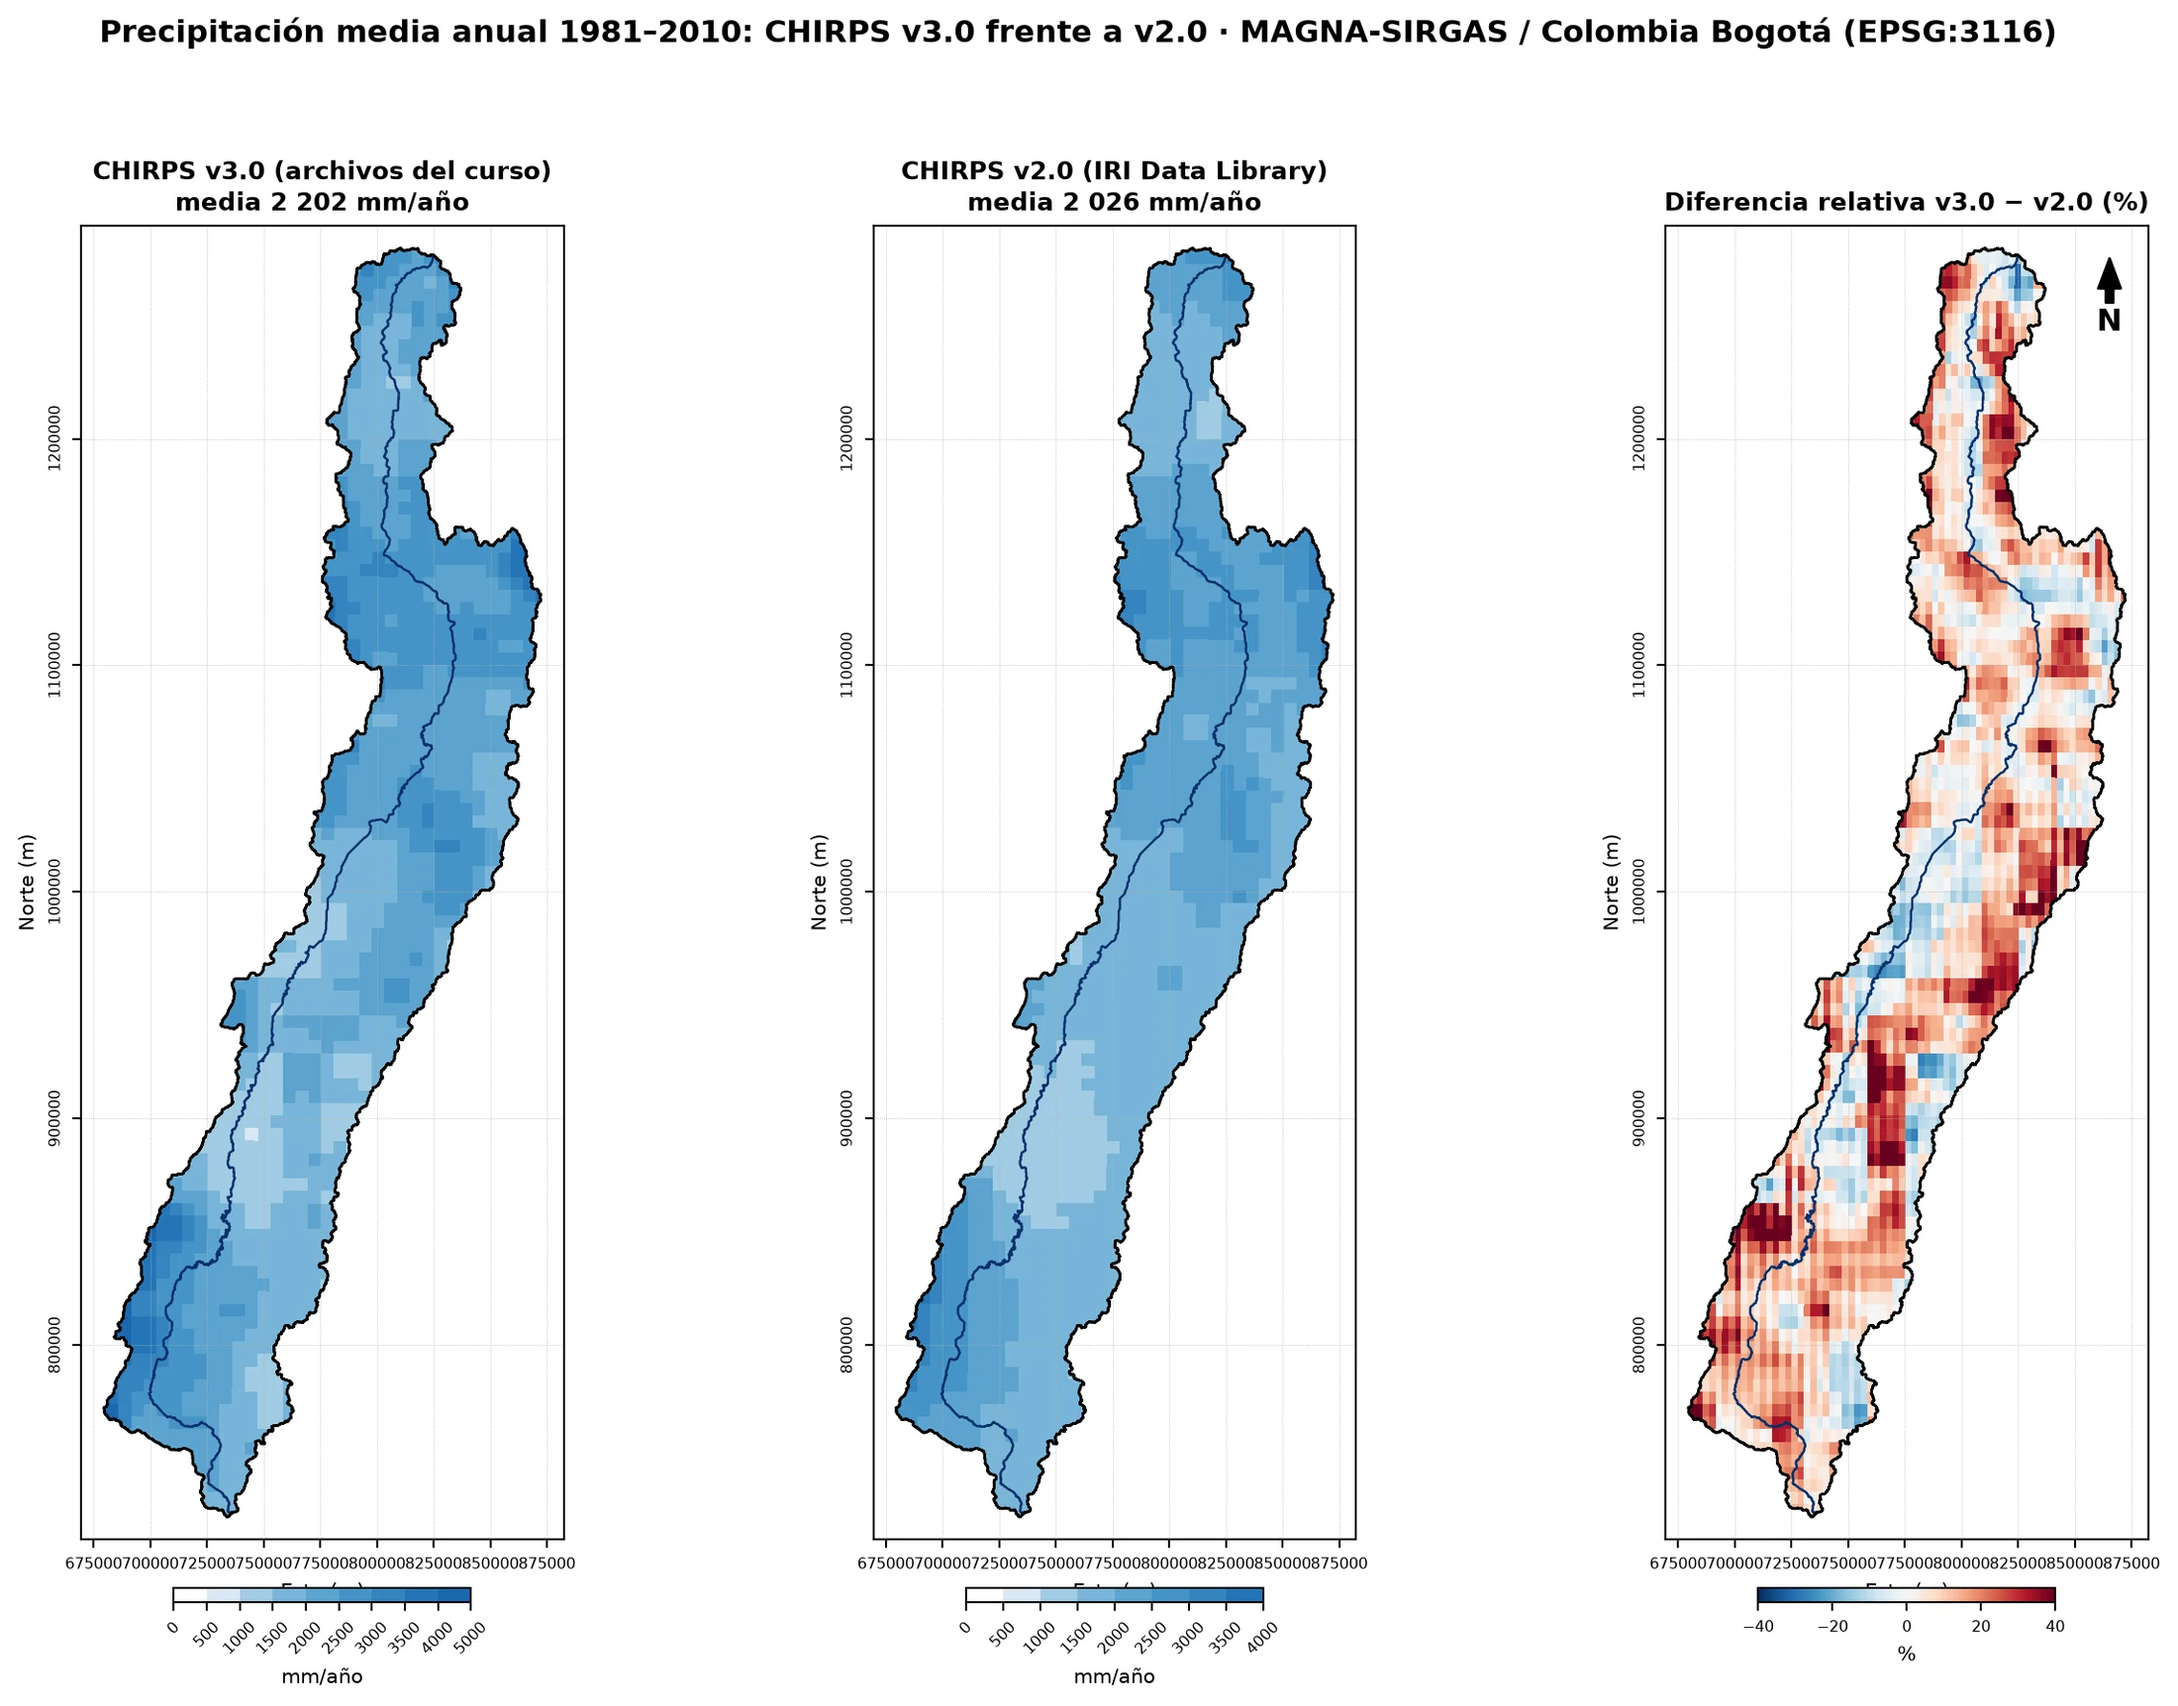
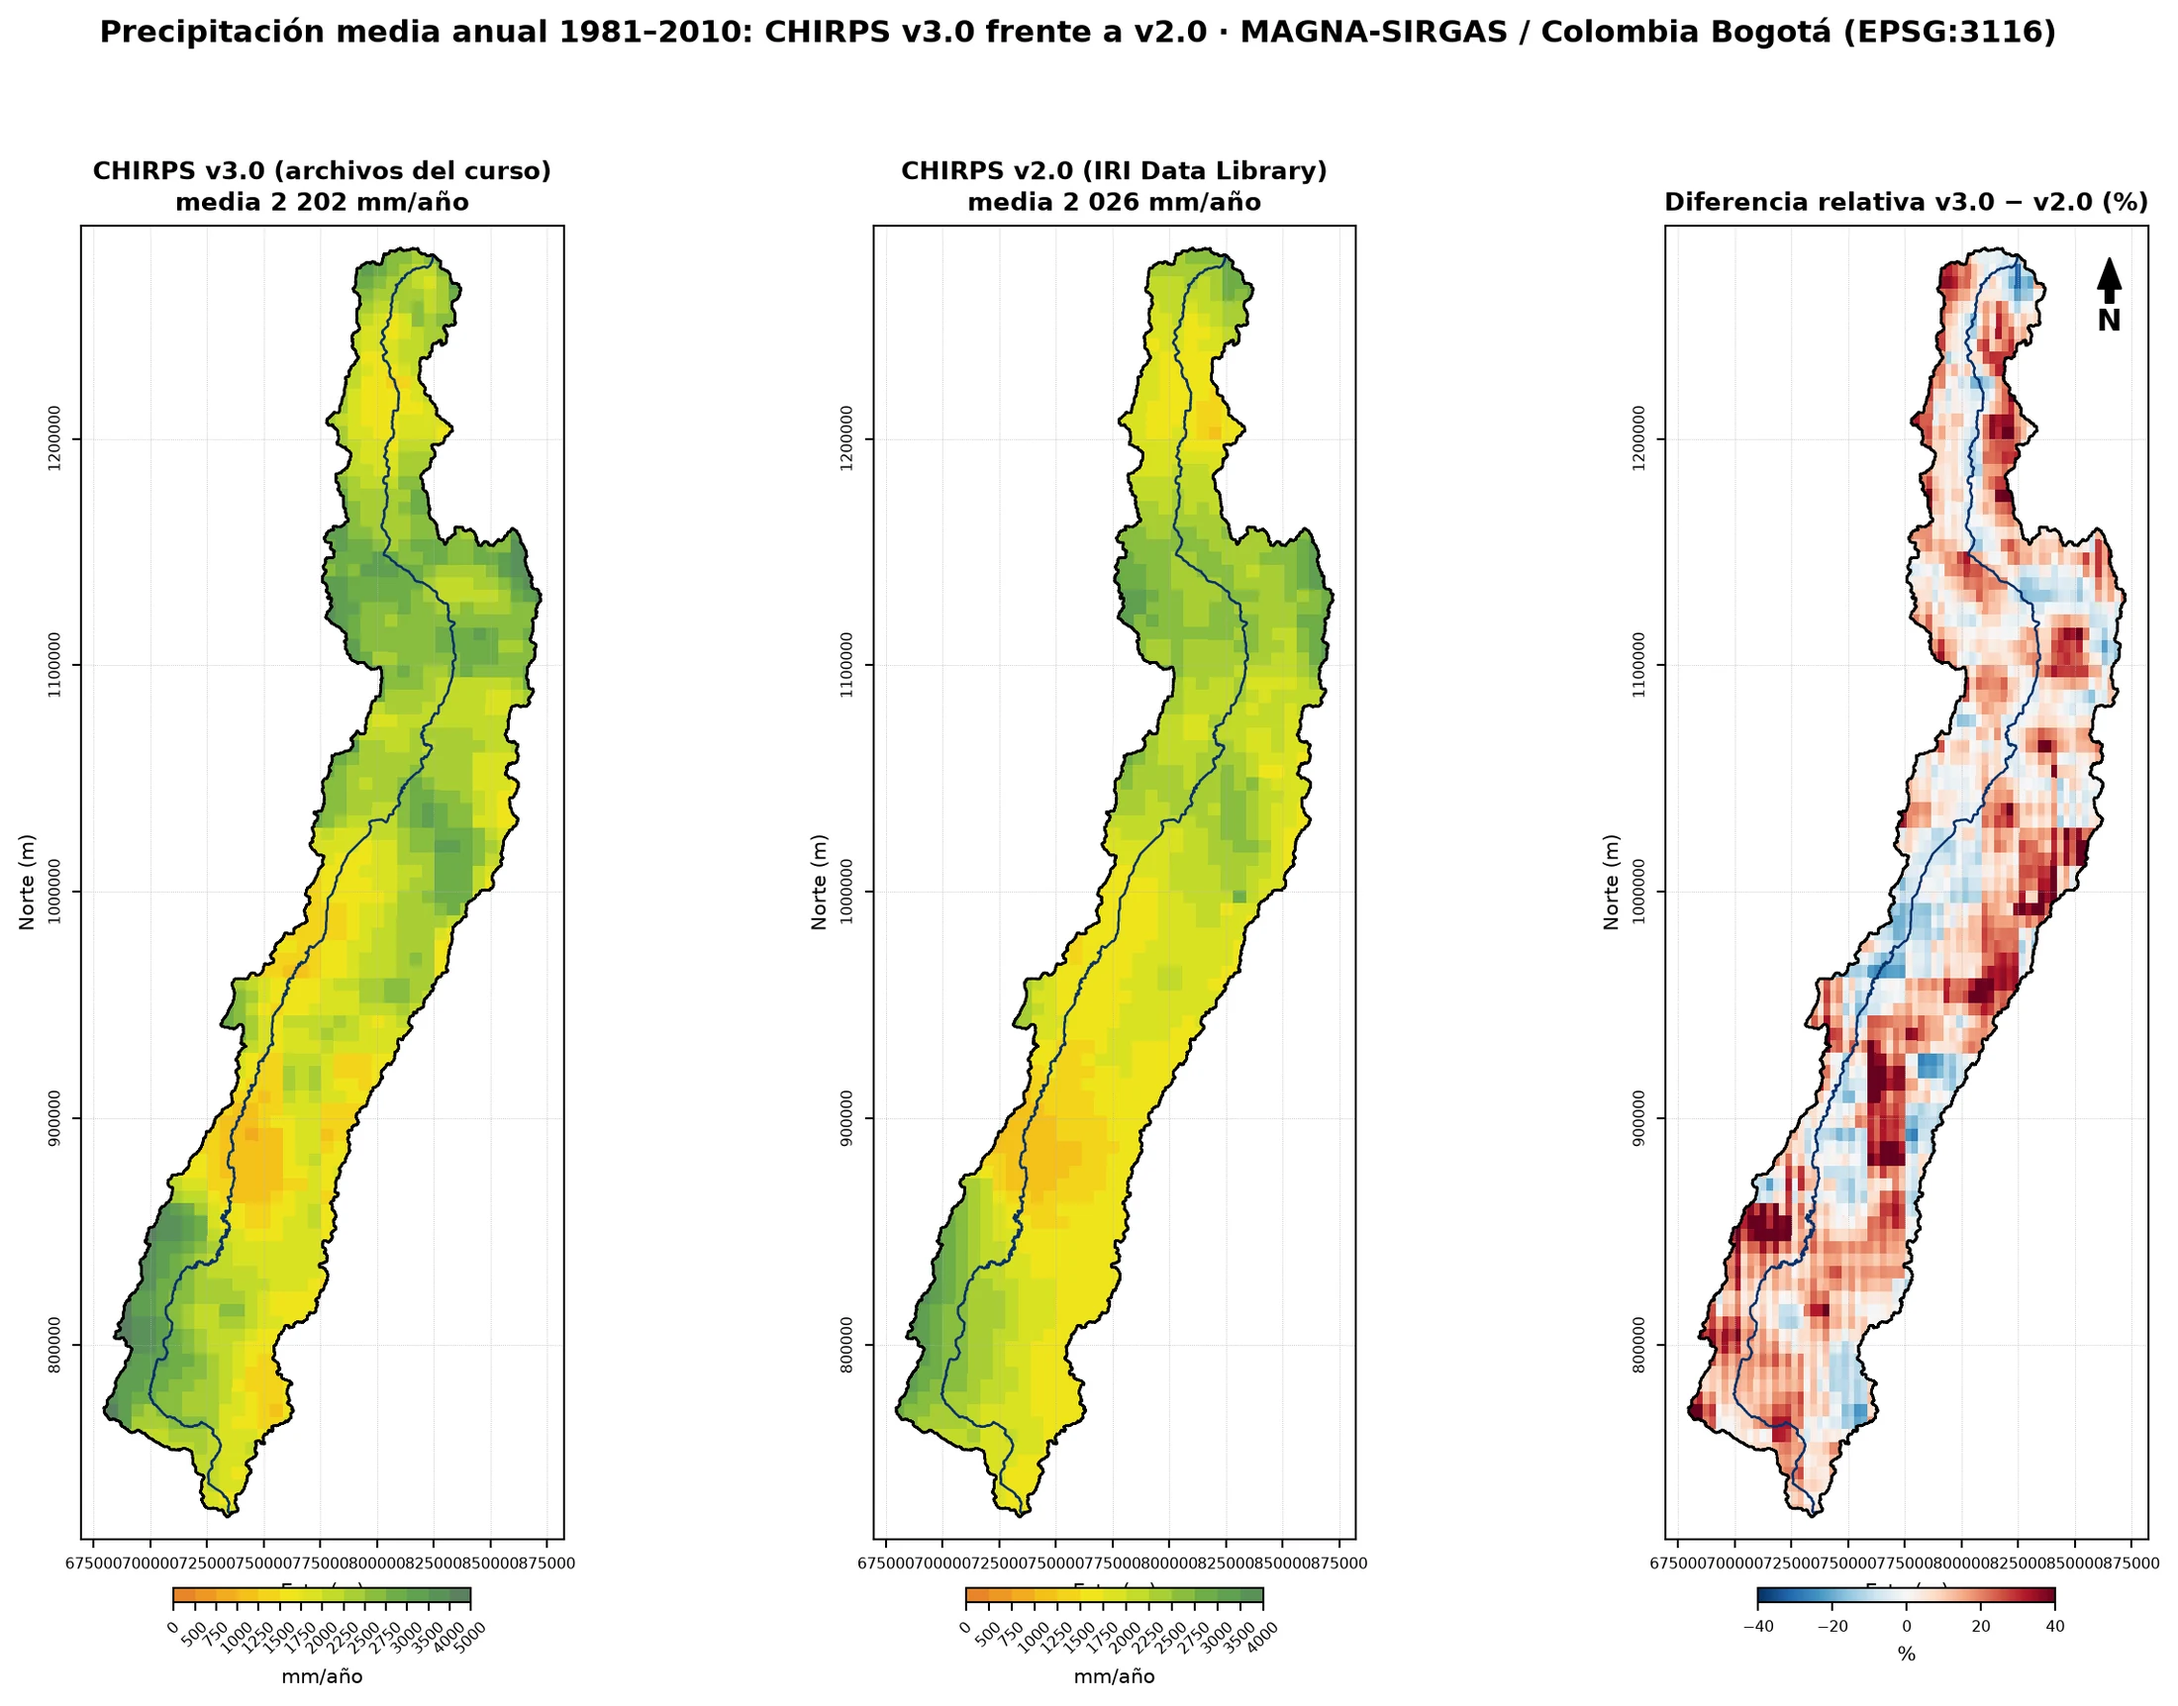
Precipitación con la paleta de Balances 1999 (naranja-amarillo-verde-azul)
Clases finas entre 500 y 3000 mm; mismo color por valor en todos los mapas de P y barra hasta el máximo de cada mapa.

diff --git a/index.html b/index.html
@@ -251,7 +251,7 @@ frente a la elección del producto.</p>
 <h3>Metodología</h3>
 <p>Para cada producto se sumaron los 12 meses de cada año y se promediaron los 30 años de 1981–2010 en su grilla original. Luego cada
 celda de 90 m de la cuenca tomó el valor de la celda del producto que la contiene (vecino más cercano, sin suavizar).</p>
-<h3>Decisiones</h3><ul class='dec'><li><b>Sin interpolar los productos.</b> el mapa muestra la resolución real de cada uno (5.5, 11 y 28 km); suavizar daría un detalle que el producto no tiene</li><li><b>Misma grilla de 90 m que la ETP.</b> el punto 12 repite el balance celda a celda cambiando sólo la precipitación</li><li><b>Escala de color común por variable.</b> cada valor tiene el mismo color en todos los mapas de P (de blanco en 0 a azul oscuro): 1000 mm es el mismo tono en IDEAM, CHIRPS y ERA5. Cada barra llega sólo hasta el máximo de su mapa</li></ul>
+<h3>Decisiones</h3><ul class='dec'><li><b>Sin interpolar los productos.</b> el mapa muestra la resolución real de cada uno (5.5, 11 y 28 km); suavizar daría un detalle que el producto no tiene</li><li><b>Misma grilla de 90 m que la ETP.</b> el punto 12 repite el balance celda a celda cambiando sólo la precipitación</li><li><b>Escala de color común por variable.</b> cada valor tiene el mismo color en todos los mapas de P (naranja → amarillo → verde → azul, como los mapas de Balances 1999): 1000 mm es el mismo tono en IDEAM, CHIRPS y ERA5. Cada barra llega sólo hasta el máximo de su mapa</li></ul>
 <div class='tw'><table><caption>Comparación con la precipitación de estaciones IDEAM</caption><thead><tr><th>1981–2010</th><th>P media (mm/año)</th><th>Mínimo (mm/año)</th><th>Máximo (mm/año)</th><th>Diferencia con IDEAM (%)</th><th>Correlación espacial con IDEAM</th></tr></thead><tbody><tr><th>IDEAM (kriging)</th><td class='n'>1 985</td><td class='n'>872</td><td class='n'>3 441</td><td class='n'>+0</td><td class='n'>1.00</td></tr><tr><th>CHIRPS v2.0</th><td class='n'>2 026</td><td class='n'>1 030</td><td class='n'>3 700</td><td class='n'>+2</td><td class='n'>0.89</td></tr><tr><th>ERA5-Land</th><td class='n'>5 961</td><td class='n'>1 681</td><td class='n'>20 177</td><td class='n'>+200</td><td class='n'>-0.06</td></tr><tr><th>ERA5</th><td class='n'>5 976</td><td class='n'>1 833</td><td class='n'>18 313</td><td class='n'>+201</td><td class='n'>-0.06</td></tr></tbody></table></div>
 <h3>Análisis</h3>
 <p><b>CHIRPS</b> reproduce el patrón de las estaciones (correlación espacial 0.89) y su
